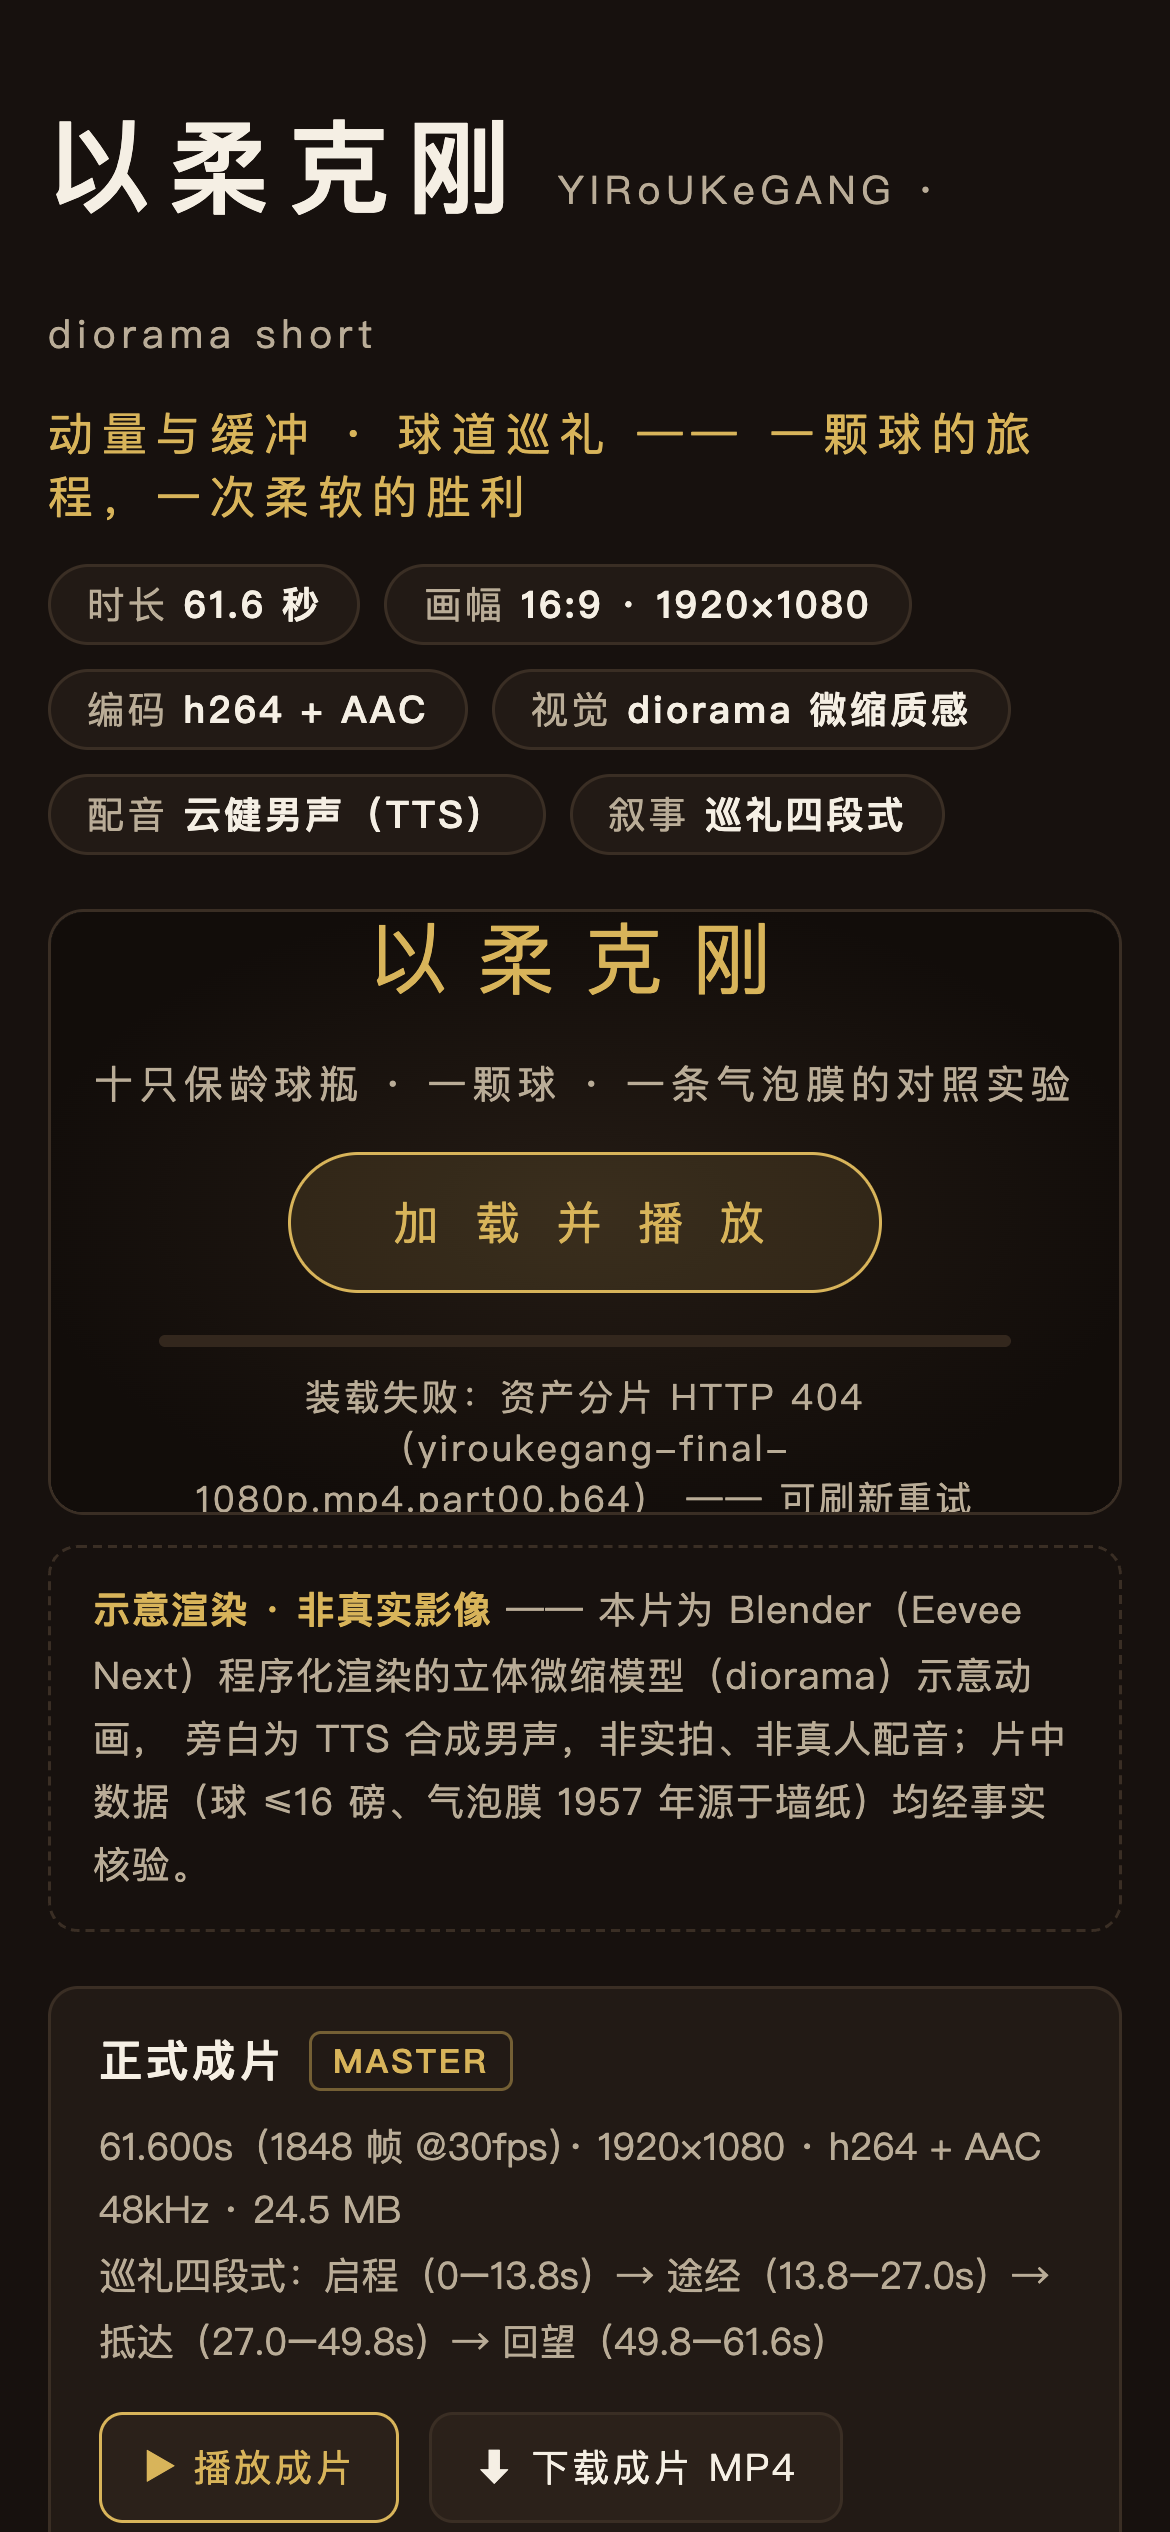
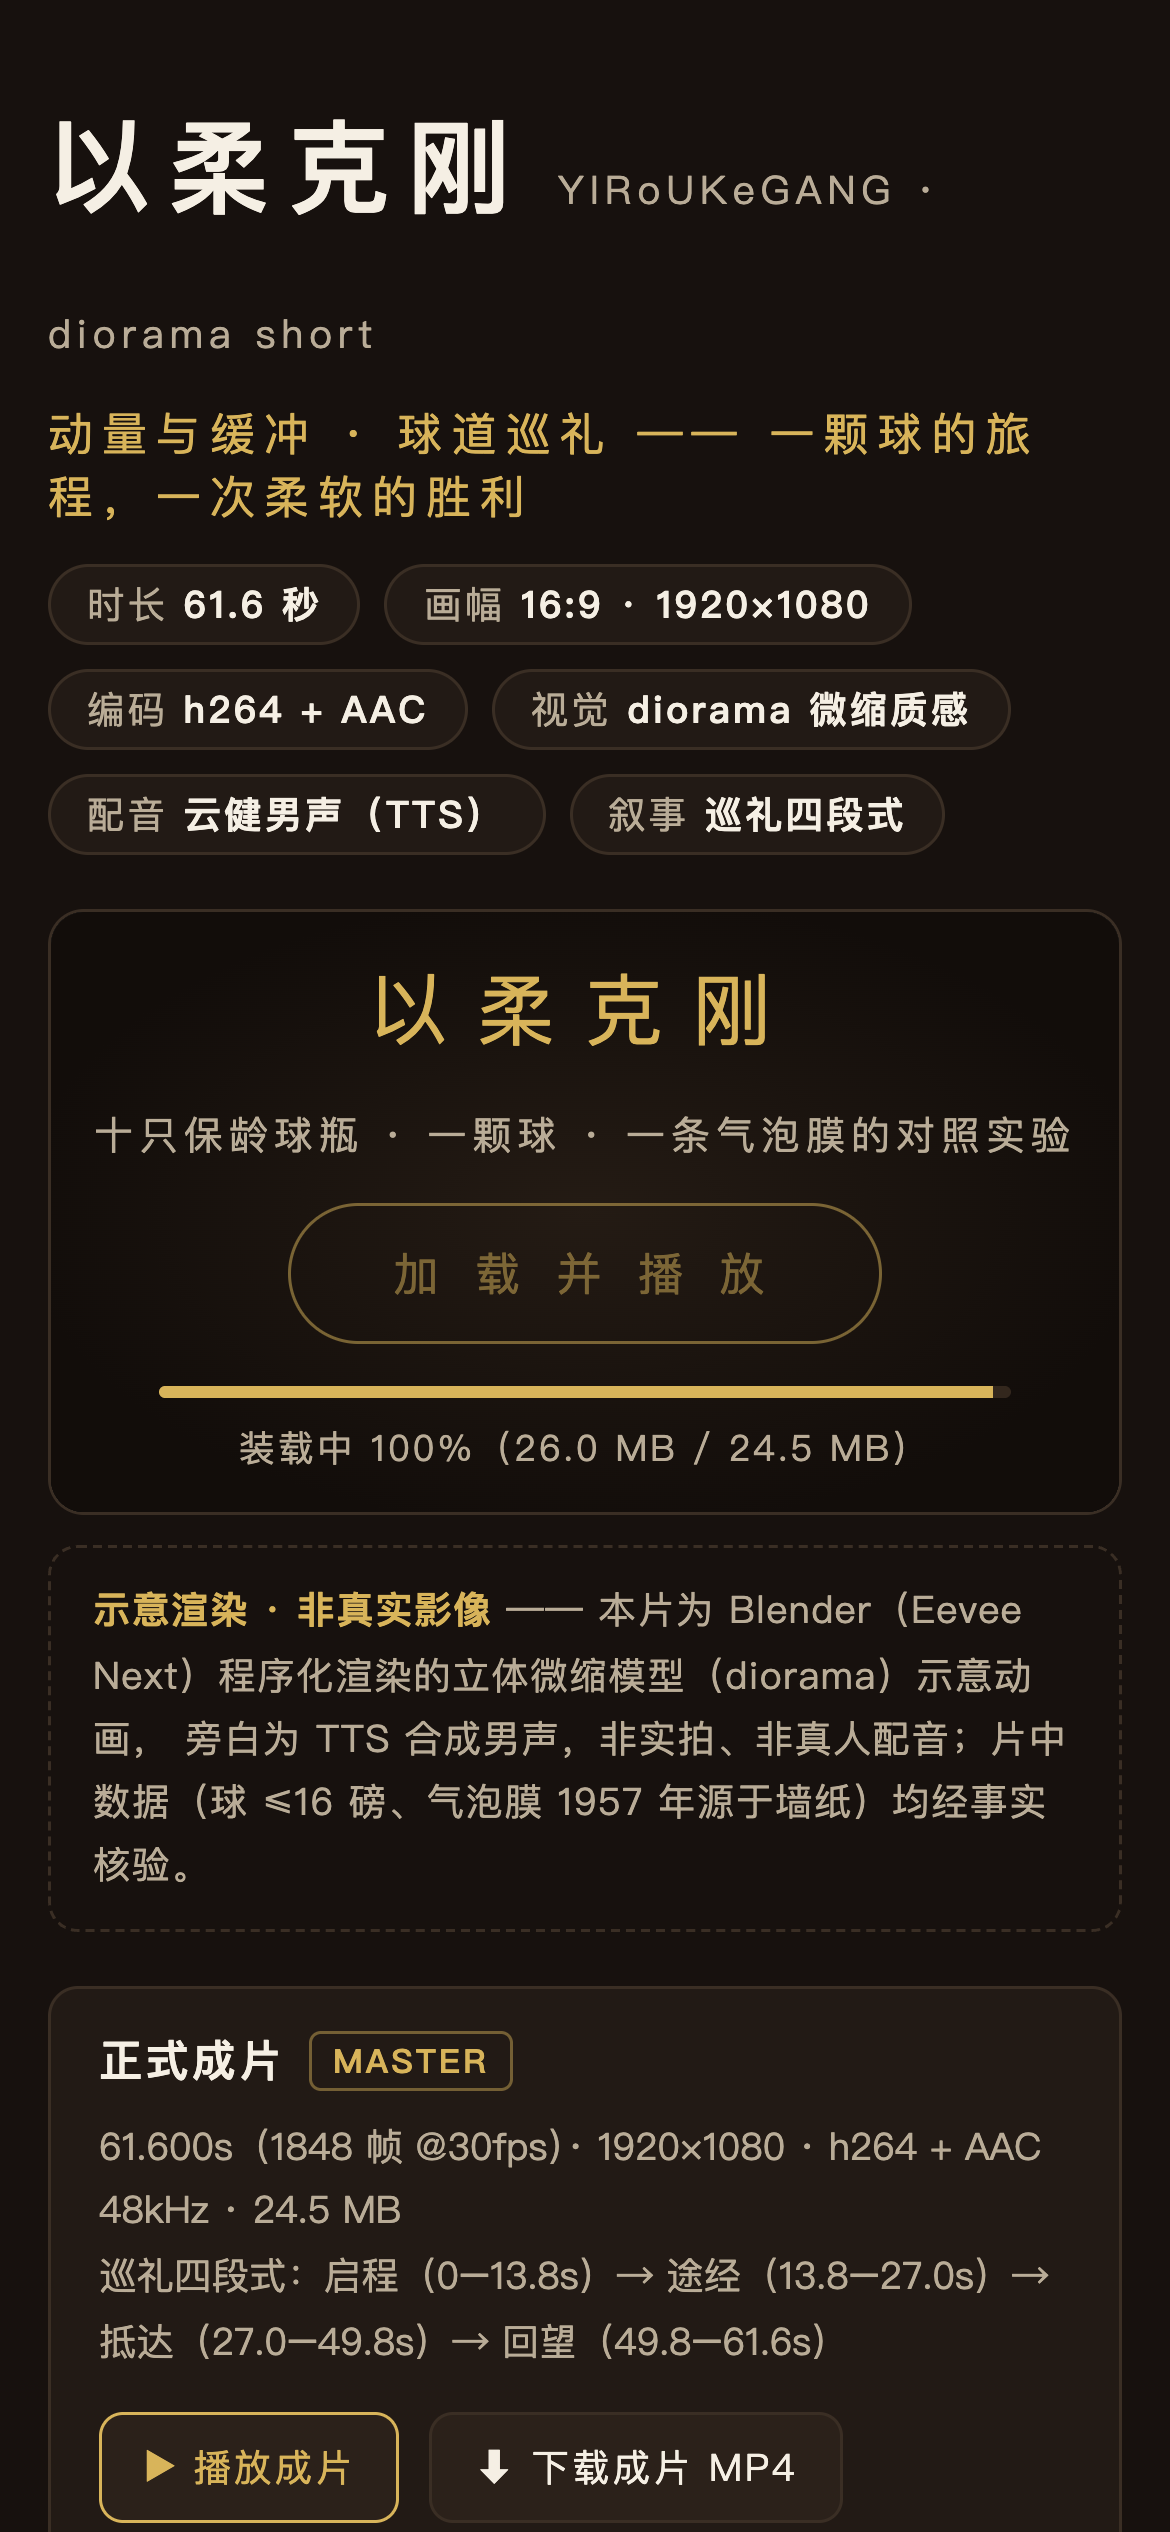
fix(videos/myrdplaygrou-2): 解码改异步分片让出主线程 + 进度分母归位
- webapp-smoke 触摸管线 FAIL 根因：34MB 同步 atob+逐字节循环占死主线程，swipe 的
  touchmove 被饿死（tap 实际命中播放键并装载到 100% —— phase-tap.png 为证，播放链路本身已通）
- b64ToBytes 改 async 分片解码（1MB 切片、片间 setTimeout(0) 让出事件循环），
  分片按 4 字符对齐、末片带 padding，解码后字节数硬校验；三片同构回归 sha256 全等
- 进度 UX 修正：拉取阶段分母 = b64 总字节（此前误用解码后字节，出现 100%(26.0/24.5MB) 错位），
  解码阶段独立报「解码中 n%」

Changed region(s): [[0.1231, 0.3432, 0.9231, 0.5928], [0.3077, 0.3744, 0.3692, 0.4056]]

diff --git a/videos/myrdplaygrou-2/apphost/landing.html b/videos/myrdplaygrou-2/apphost/landing.html
@@ -198,12 +198,27 @@
     return BASE + 'api/public/assets/' + asset.stem + '.part' + (i < 10 ? '0' + i : '' + i) + '.b64';
   }
 
-  function b64ToBytes(b64) {
+  function sleep0() { return new Promise(function (r) { setTimeout(r, 0); }); }
+
+  // base64 → 字节：分片异步解码，每片让出事件循环（34MB 同步解码会把主线程占死，
+  // webapp-smoke 触摸管线实测被饿 → FAIL；分片后 UI 保持可交互、进度可走动）。
+  // 分片按 4 字符对齐切（base64 流位置无关，仅末片带 padding）；expectBytes 为硬校验值。
+  async function b64ToBytesAsync(b64, expectBytes, onProgress) {
     var clean = b64.replace(/\s+/g, '');
-    var bin = atob(clean);
-    var len = bin.length;
-    var out = new Uint8Array(len);
-    for (var i = 0; i < len; i++) out[i] = bin.charCodeAt(i);
+    if (clean.length % 4 !== 0) throw new Error('base64 长度非法：' + clean.length);
+    var out = new Uint8Array(expectBytes);
+    var SLICE = 1048576; // 4 的倍数
+    var written = 0;
+    for (var i = 0; i < clean.length; i += SLICE) {
+      var seg = clean.slice(i, Math.min(i + SLICE, clean.length));
+      var bin = atob(seg);
+      var n = Math.min(bin.length, expectBytes - written);
+      for (var j = 0; j < n; j++) out[written + j] = bin.charCodeAt(j);
+      written += n;
+      if (onProgress) onProgress(Math.min(i + seg.length, clean.length), clean.length);
+      await sleep0();
+    }
+    if (written !== expectBytes) throw new Error('解码后字节数不符：期望 ' + expectBytes + '，实得 ' + written);
     return out;
   }
 
@@ -230,16 +245,16 @@
     return chain.then(function () { return texts.join(''); });
   }
 
-  // 装载 = 分片拉取 → 拼接 → base64 解码 → mp4 Blob（objectURL 供播放与下载共用）
-  function loadAsset(key, onProgress) {
+  // 装载 = 分片拉取（进度分母 = b64 总字节）→ 异步分片解码（进度独立报）→ mp4 Blob
+  function loadAsset(key, onLoadProgress, onDecodeProgress) {
     if (blobs[key]) return Promise.resolve(blobs[key]);
     if (inflight[key]) return inflight[key];
     var asset = ASSETS[key];
-    inflight[key] = fetchParts(asset, onProgress).then(function (text) {
-      var bytes = b64ToBytes(text);
-      if (bytes.byteLength !== asset.bytes) {
-        throw new Error('解码后字节数不符：期望 ' + asset.bytes + '，实得 ' + bytes.byteLength);
-      }
+    inflight[key] = fetchParts(asset, onLoadProgress).then(function (text) {
+      return b64ToBytesAsync(text, asset.bytes, function (done, total) {
+        if (onDecodeProgress) onDecodeProgress(done, total);
+      });
+    }).then(function (bytes) {
       var objUrl = URL.createObjectURL(new Blob([bytes], { type: 'video/mp4' }));
       blobs[key] = objUrl;
       return objUrl;
@@ -248,13 +263,23 @@
   }
 
   function playKey(key) {
+    var asset = ASSETS[key];
     setStatus(key, '装载中…（文本通道 → 本地解码）');
     return loadAsset(key, function (got) {
-      var pct = Math.min(100, Math.round(got * 100 / ASSETS[key].bytes));
-      setStatus(key, '装载中 ' + pct + '% · ' + fmtMB(got) + ' / ' + fmtMB(ASSETS[key].bytes));
+      // 拉取阶段：分母 = b64 分片总字节
+      var pct = Math.min(99, Math.round(got * 100 / asset.b64Bytes));
+      setStatus(key, '装载中 ' + pct + '% · ' + fmtMB(got) + ' / ' + fmtMB(asset.b64Bytes));
       if (key === 'final') {
         barFill.style.width = pct + '%';
-        ptext.textContent = '装载中 ' + pct + '%（' + fmtMB(got) + ' / ' + fmtMB(ASSETS[key].bytes) + '）';
+        ptext.textContent = '装载中 ' + pct + '%（' + fmtMB(got) + ' / ' + fmtMB(asset.b64Bytes) + '）';
+      }
+    }, function (done, total) {
+      // 解码阶段：拉取已满格，这里独立报「解码中」
+      var pct = Math.round(done * 100 / total);
+      setStatus(key, '解码中 ' + pct + '%');
+      if (key === 'final') {
+        barFill.style.width = '100%';
+        ptext.textContent = '解码中 ' + pct + '%（' + fmtMB(asset.bytes) + ' 视频字节装配）';
       }
     }).then(function (objUrl) {
       if (player.src !== objUrl) {
@@ -307,7 +332,9 @@
         setStatus(key, '准备下载：先装载…');
         playBtn.disabled = true;
         loadAsset(key, function (got) {
-          setStatus(key, '装载中 ' + Math.min(100, Math.round(got * 100 / ASSETS[key].bytes)) + '%');
+          setStatus(key, '装载中 ' + Math.min(99, Math.round(got * 100 / ASSETS[key].b64Bytes)) + '%');
+        }, function (done, total) {
+          setStatus(key, '解码中 ' + Math.round(done * 100 / total) + '%');
         }).then(function (objUrl) {
           $(ASSETS[key].dl).href = objUrl;
           setStatus(key, '就绪 · 已触发下载', 'ok');
